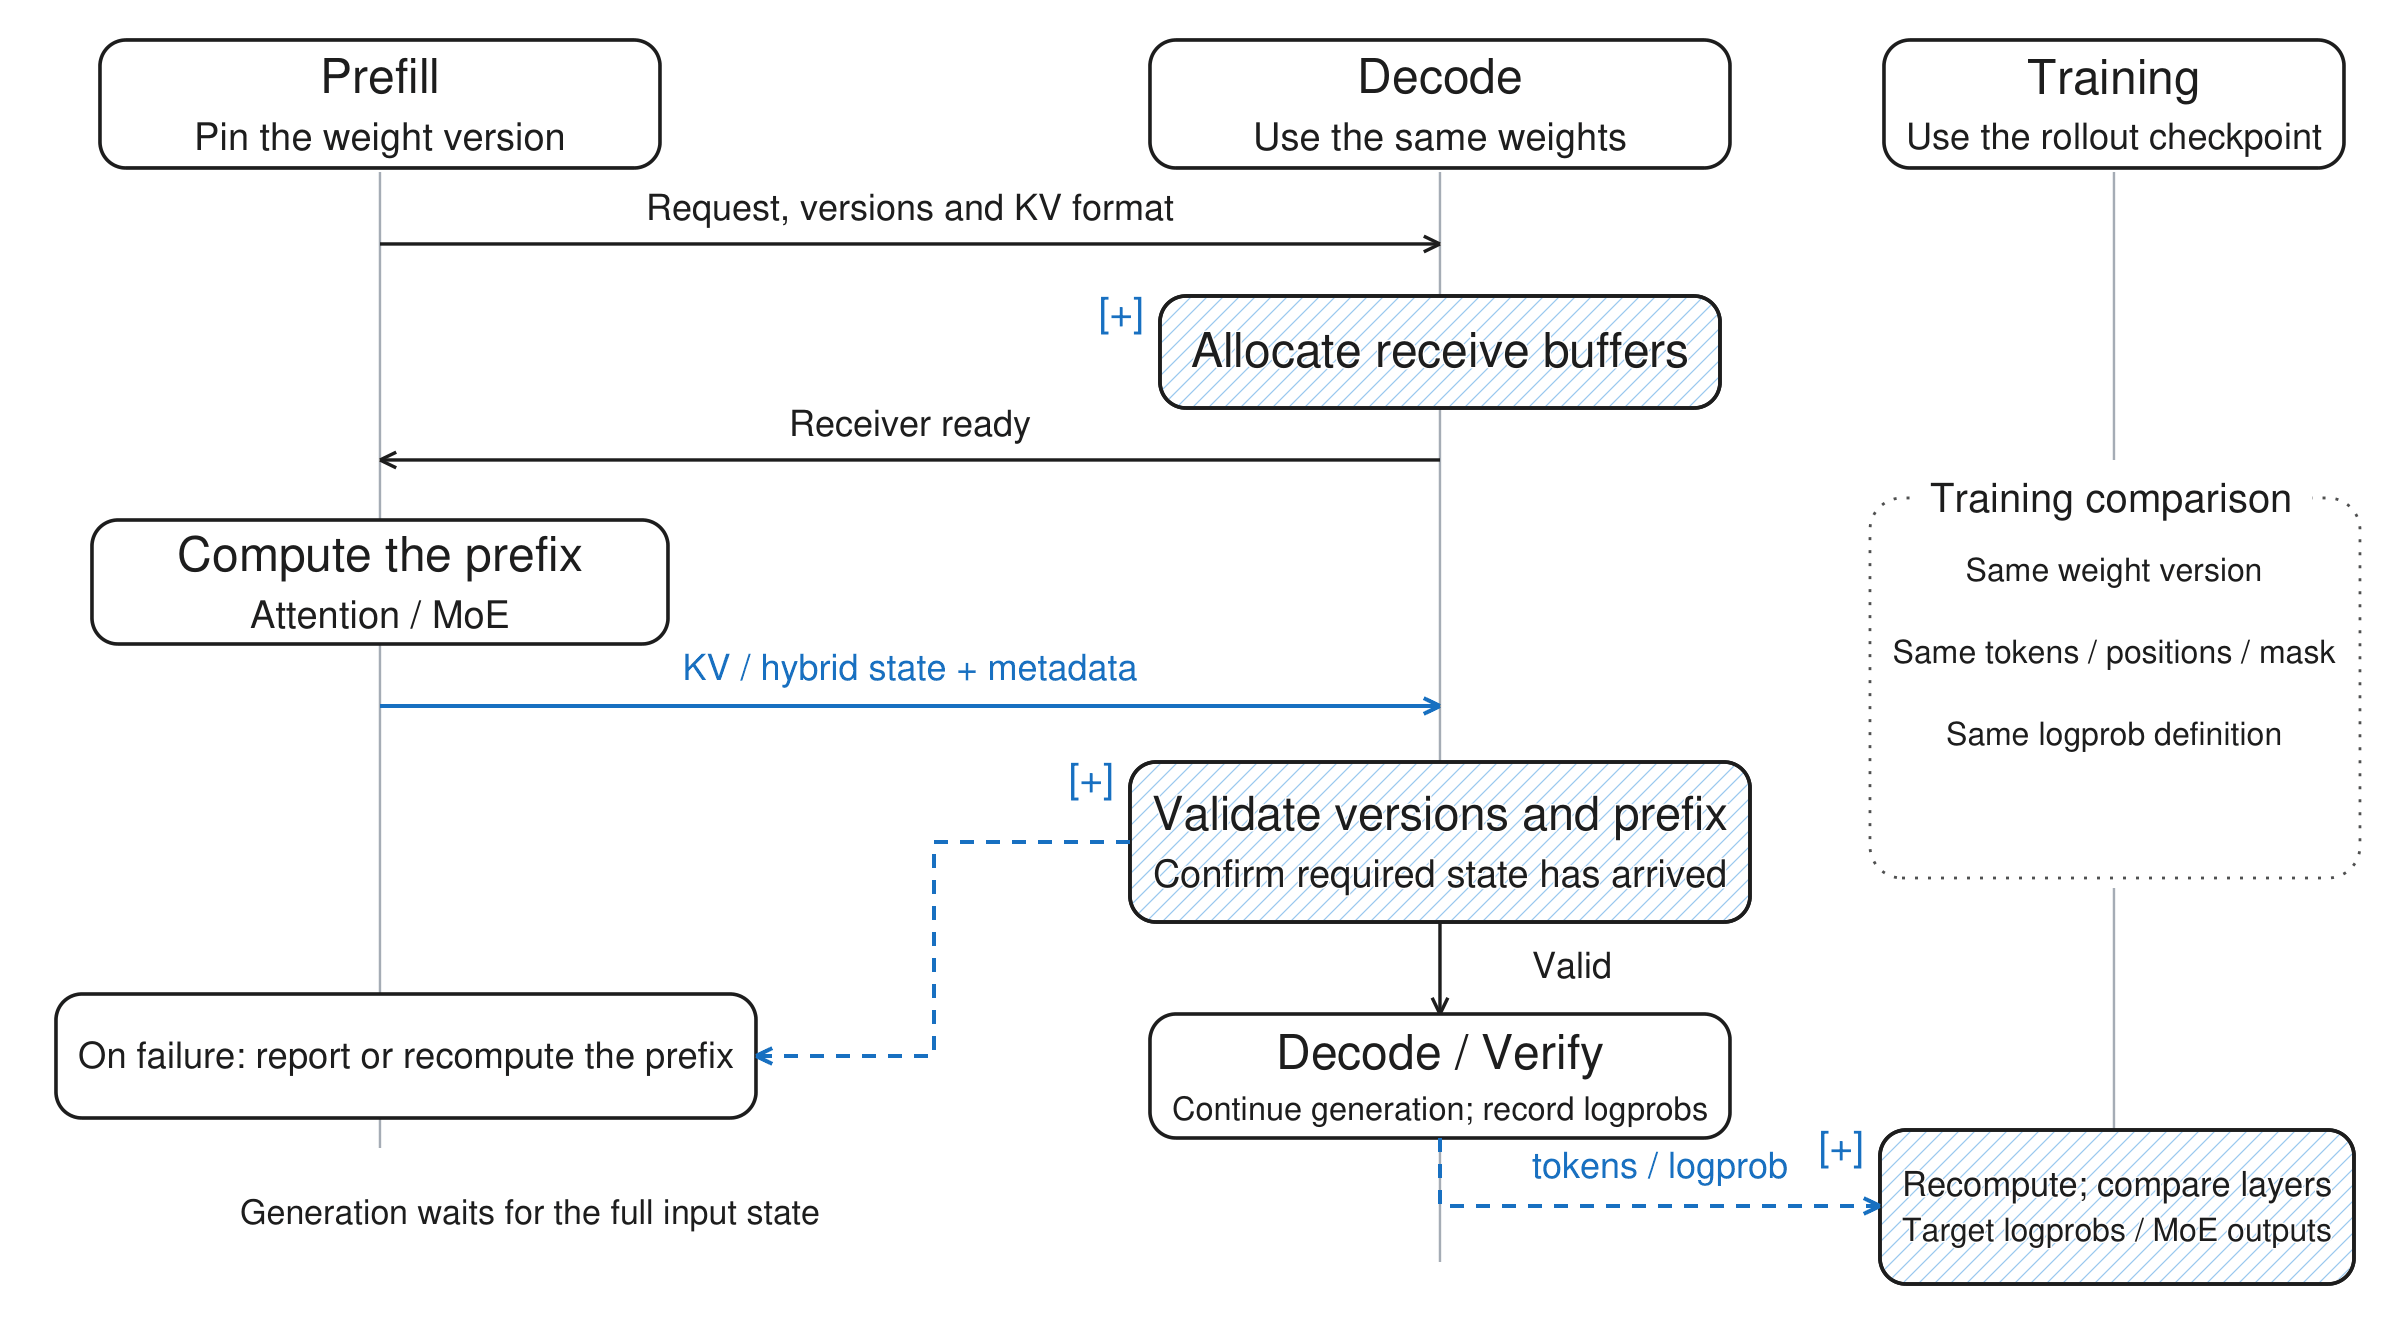
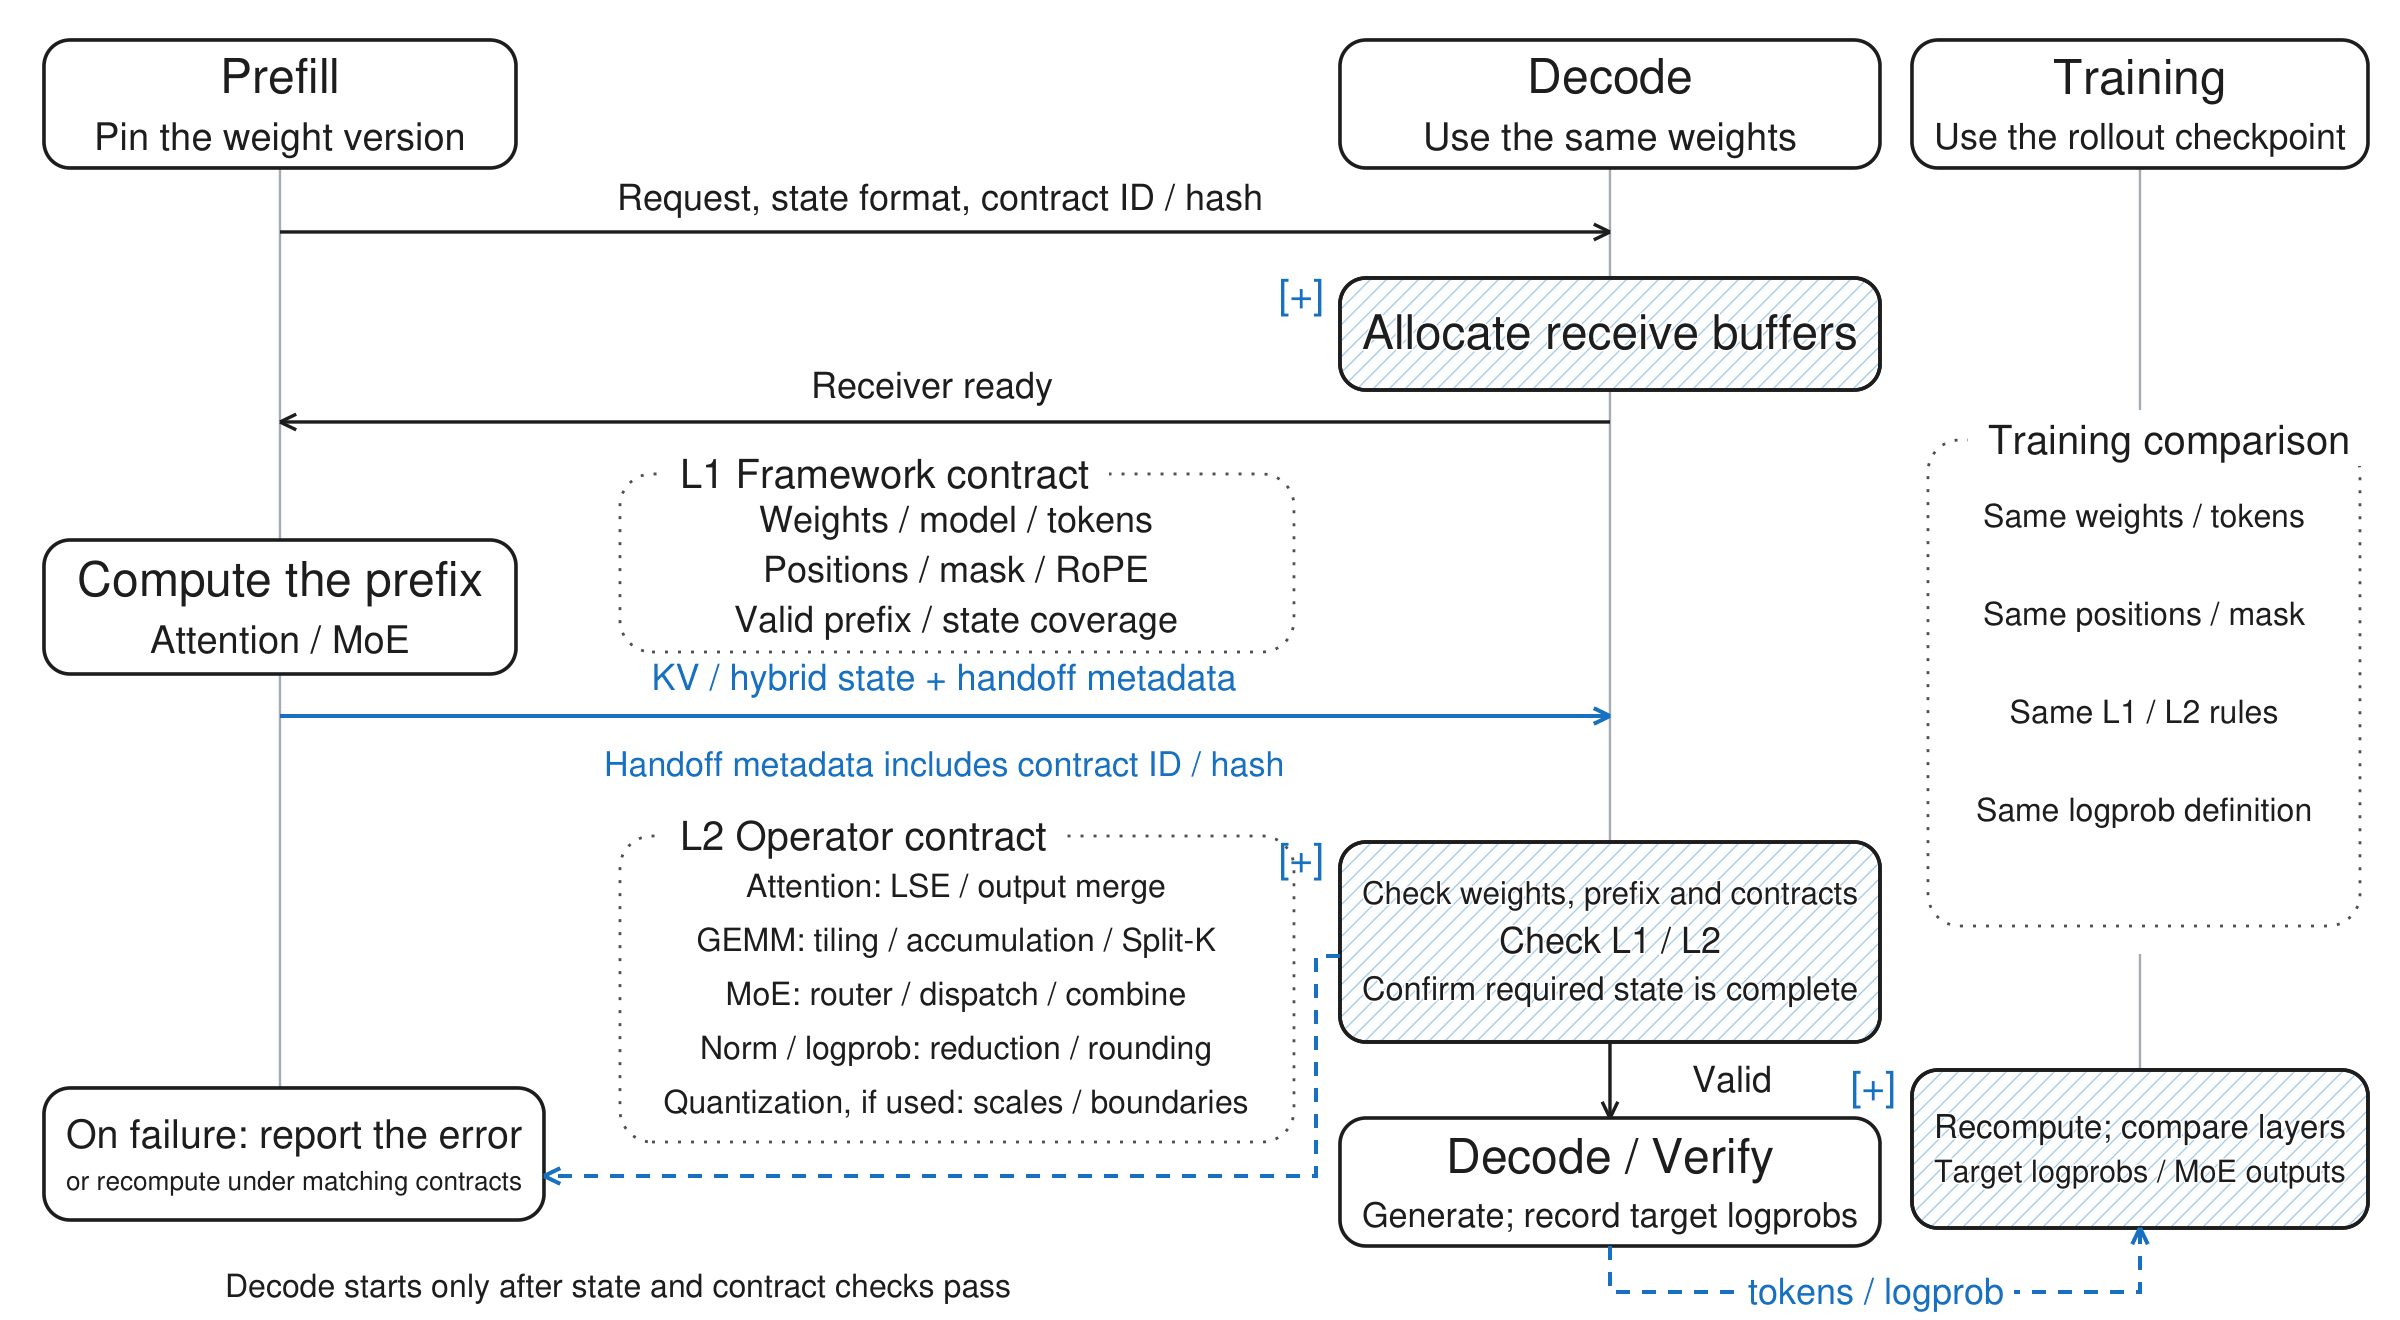
docs: make L1 and L2 contracts explicit in P/D roadmap

diff --git a/docs/roadmaps/assets/issue-563/render.py b/docs/roadmaps/assets/issue-563/render.py
@@ -147,31 +147,60 @@ def speculative(f):
     f.label(147,307,'Connect through the adapter',18)
     f.label(975,637,'Shared by CUDA / ROCm / Ascend',16)
 
+def pd_contract_figure(f, lang='cn'):
+    cn = lang == 'cn'
+    def t(a,b): return a if cn else b
+    c=f.c
+    c.setStrokeColor(colors.HexColor('#A5ADB5')); c.setLineWidth(1.2)
+    for x,y1,y2 in [(140,84,610),(805,84,624),(1070,84,205),(1070,477,535)]:
+        c.line(x,660-y1,x,660-y2)
+    f.node(22,20,236,64,['Prefill',t('固定权重版本','Pin the weight version')])
+    f.node(670,20,270,64,['Decode',t('使用同一版权重','Use the same weights')])
+    f.node(956,20,228,64,['Training',t('使用该 rollout 的权重','Use the rollout checkpoint')])
+    f.arrow([(140,116),(805,116)],label=t('请求、状态规格、契约 ID / hash','Request, state format, contract ID / hash'),at=(470,99))
+    f.node(670,139,270,56,[t('分配接收缓冲','Allocate receive buffers')],True)
+    f.arrow([(805,211),(140,211)],label=t('接收端就绪','Receiver ready'),at=(466,193))
+    f.group(310,237,337,89,t('L1 框架层契约','L1 Framework contract'))
+    for y,a,b in [
+        (260,'权重 / 模型 / tokens','Weights / model / tokens'),
+        (285,'位置 / mask / RoPE','Positions / mask / RoPE'),
+        (310,'有效前缀 / 状态覆盖长度','Valid prefix / state coverage')]:
+        f.label(478,y,t(a,b),size=18)
+    f.node(22,270,236,67,[t('计算前缀','Compute the prefix'),'Attention / MoE'])
+    f.arrow([(140,358),(805,358)],blue=True,label=t('KV / 混合状态 + 交接元数据','KV / hybrid state + handoff metadata'),at=(472,339))
+    f.label(472,382,t('交接元数据包含契约 ID / hash','Handoff metadata includes contract ID / hash'),size=17,color=BLUE)
+    f.group(310,418,337,153,t('L2 算子层契约','L2 Operator contract'))
+    for y,a,b in [
+        (443,'Attention：LSE / 输出合并','Attention: LSE / output merge'),
+        (470,'GEMM：分块 / 累加 / Split-K','GEMM: tiling / accumulation / Split-K'),
+        (497,'MoE：路由 / dispatch / combine','MoE: router / dispatch / combine'),
+        (524,'Norm / logprob：规约 / 舍入','Norm / logprob: reduction / rounding'),
+        (551,'量化（如启用）：scale / 量化位置','Quantization, if used: scales / boundaries')]:
+        f.label(478,y,t(a,b),size=17 if cn else 16)
+    f.node(670,421,270,100,[
+        (t('核对权重、前缀与契约','Check weights, prefix and contracts'),21,False),
+        (t('L1 / L2 检查','Check L1 / L2'),18,False),
+        (t('确认所需状态已收齐','Confirm required state is complete'),17,False)],True)
+    f.node(22,544,250,66,[
+        (t('检查失败：报错','On failure: report the error'),21,False),
+        (t('或按匹配契约重算前缀','or recompute under matching contracts'),16,False)])
+    f.arrow([(670,478),(658,478),(658,588),(272,588)],blue=True,dash=True)
+    f.node(670,559,270,64,['Decode / Verify',t('继续生成，记录 logprob','Generate; record target logprobs')])
+    f.arrow([(805,521),(805,559)],label=t('检查通过','Valid'),at=(866,540))
+    f.group(964,220,216,243,t('训练对照','Training comparison'))
+    for y,a,b in [
+        (258,'同一权重 / tokens','Same weights / tokens'),
+        (307,'相同位置 / mask','Same positions / mask'),
+        (356,'相同 L1 / L2 规则','Same L1 / L2 rules'),
+        (405,'相同 logprob 定义','Same logprob definition')]:
+        f.label(1072,y,t(a,b),size=16)
+    f.node(956,535,228,79,[t('独立重算并逐层比较','Recompute; compare layers'),t('目标 logprob / MoE 结果','Target logprobs / MoE outputs')],True)
+    f.arrow([(805,623),(805,646),(1070,646),(1070,614)],blue=True,dash=True,label='tokens / logprob',at=(938,646))
+    f.label(309,643,t('状态收齐、契约通过后，才执行 Decode','Decode starts only after state and contract checks pass'),size=17 if cn else 16)
+
+
 def pd_consistency(f):
-    # Lifelines are drawn first so the action boxes cover them cleanly.
-    c=f.c;c.setStrokeColor(colors.HexColor('#A5ADB5'));c.setLineWidth(1.2)
-    c.line(190,660-86,190,660-574)
-    c.line(720,660-86,720,660-631)
-    c.line(1057,660-86,1057,660-230)
-    c.line(1057,660-444,1057,660-565)
-    f.node(50,20,280,64,['Prefill','Pin the weight version'])
-    f.node(575,20,290,64,['Decode','Use the same weights'])
-    f.node(942,20,230,64,['Training','Use the rollout checkpoint'])
-    f.arrow([(190,122),(720,122)],label='Request, versions and KV format',at=(455,104))
-    f.node(580,148,280,56,['Allocate receive buffers'],True)
-    f.arrow([(720,230),(190,230)],label='Receiver ready',at=(455,212))
-    f.node(46,260,288, 62,['Compute the prefix','Attention / MoE'])
-    f.arrow([(190,353),(720,353)],blue=True,label='KV / hybrid state + metadata',at=(455,334))
-    f.node(565,381,310, 80,['Validate versions and prefix','Confirm required state has arrived'],True)
-    f.node(28,497,350, 62,['On failure: report or recompute the prefix'])
-    f.arrow([(565,421),(467,421),(467,528),(378,528)],blue=True,dash=True)
-    f.node(575,507,290, 62,['Decode / Verify','Continue generation; record logprobs'])
-    f.arrow([(720,461),(720,507)],label='Valid',at=(786,483))
-    f.group(935,249,245,190,'Training comparison')
-    for y,t in [(285,'Same weight version'),(326,'Same tokens / positions / mask'),(367,'Same logprob definition')]:f.label(1057,y,t,16)
-    f.node(940,565,237, 77,['Recompute; compare layers','Target logprobs / MoE outputs'],True)
-    f.arrow([(720,569),(720,603),(940,603)],blue=True,dash=True,label='tokens / logprob',at=(830,583))
-    f.label(265,606,'Generation waits for the full input state',17)
+    pd_contract_figure(f, 'en')
 
 def pd_topology(f):
     f.group(20,25,1160,230,'1P1D: one Prefill node and one Decode node (example)')
@@ -179,7 +208,7 @@ def pd_topology(f):
     f.node(713,72,431,141,['D: 4 NPUs / EP4','128 experts; 32 per rank','Expert 80 on rank 2'])
     f.arrow([(497,145),(713,145)],blue=True,label='State handoff',at=(605,120))
     f.label(605,177,'KV / hybrid state',size=16)
-    f.label(605,202,'+ metadata',size=16)
+    f.label(605,202,'Request / contract metadata',size=15)
     f.label(600,236,'Preserve logical expert IDs; validate top-k slots and numerical rules for the same input',19)
     f.group(20,305,1160,290,'Multi-node example: two Prefill nodes and four Decode nodes')
     f.label(257,345,'Prefill: EP16',23,True)
@@ -192,7 +221,7 @@ def pd_topology(f):
     f.node(968,384,194, 58,['D-node 1: 2 NPUs','rank 2-3'])
     f.node(745,473,194, 58,['D-node 2: 2 NPUs','rank 4-5'])
     f.node(968,473,194, 58,['D-node 3: 2 NPUs','rank 6-7'])
-    f.node(509,394,170,127,[('P to D',24,False),('KV / hybrid state',17,False),('Handoff metadata',17,False),('Target layout',17,False)],True)
+    f.node(509,394,170,127,[('P to D',24,False),('KV / hybrid state',17,False),('Request / contract metadata',15,False),('Target layout',17,False)],True)
     f.arrow([(448,458),(509,458)])
     f.arrow([(679,458),(732,458)])
     f.label(260,564,'Within P: EP dispatch / return',19)

diff --git a/docs/roadmaps/assets/issue-563/README.md b/docs/roadmaps/assets/issue-563/README.md
@@ -20,3 +20,5 @@ Install `reportlab`, `pymupdf` and `Pillow`, then run `python render.py`. It wri
 The top-k of eight and the device/expert counts are illustrative. Detailed assumptions and validation requirements remain in the issue body.
 
 The architecture diagram follows PR #497. It uses the vime integration present in v0.1.0 as a reference: training initialization and logprob-provider hooks, plus the vLLM rollout plugin. The vime-to-verl dotted arrow denotes reuse of the integration approach, not a runtime dependency. Proposed common-code extraction is described in the issue.
+
+The P/D handoff diagram separates the L1 framework contract from the L2 operator contract. The receiver checks request/state compatibility and the registered contract before continuing generation. Contract references may be transmitted as IDs, versions or hashes; this does not replace operator and execution-plan validation.
